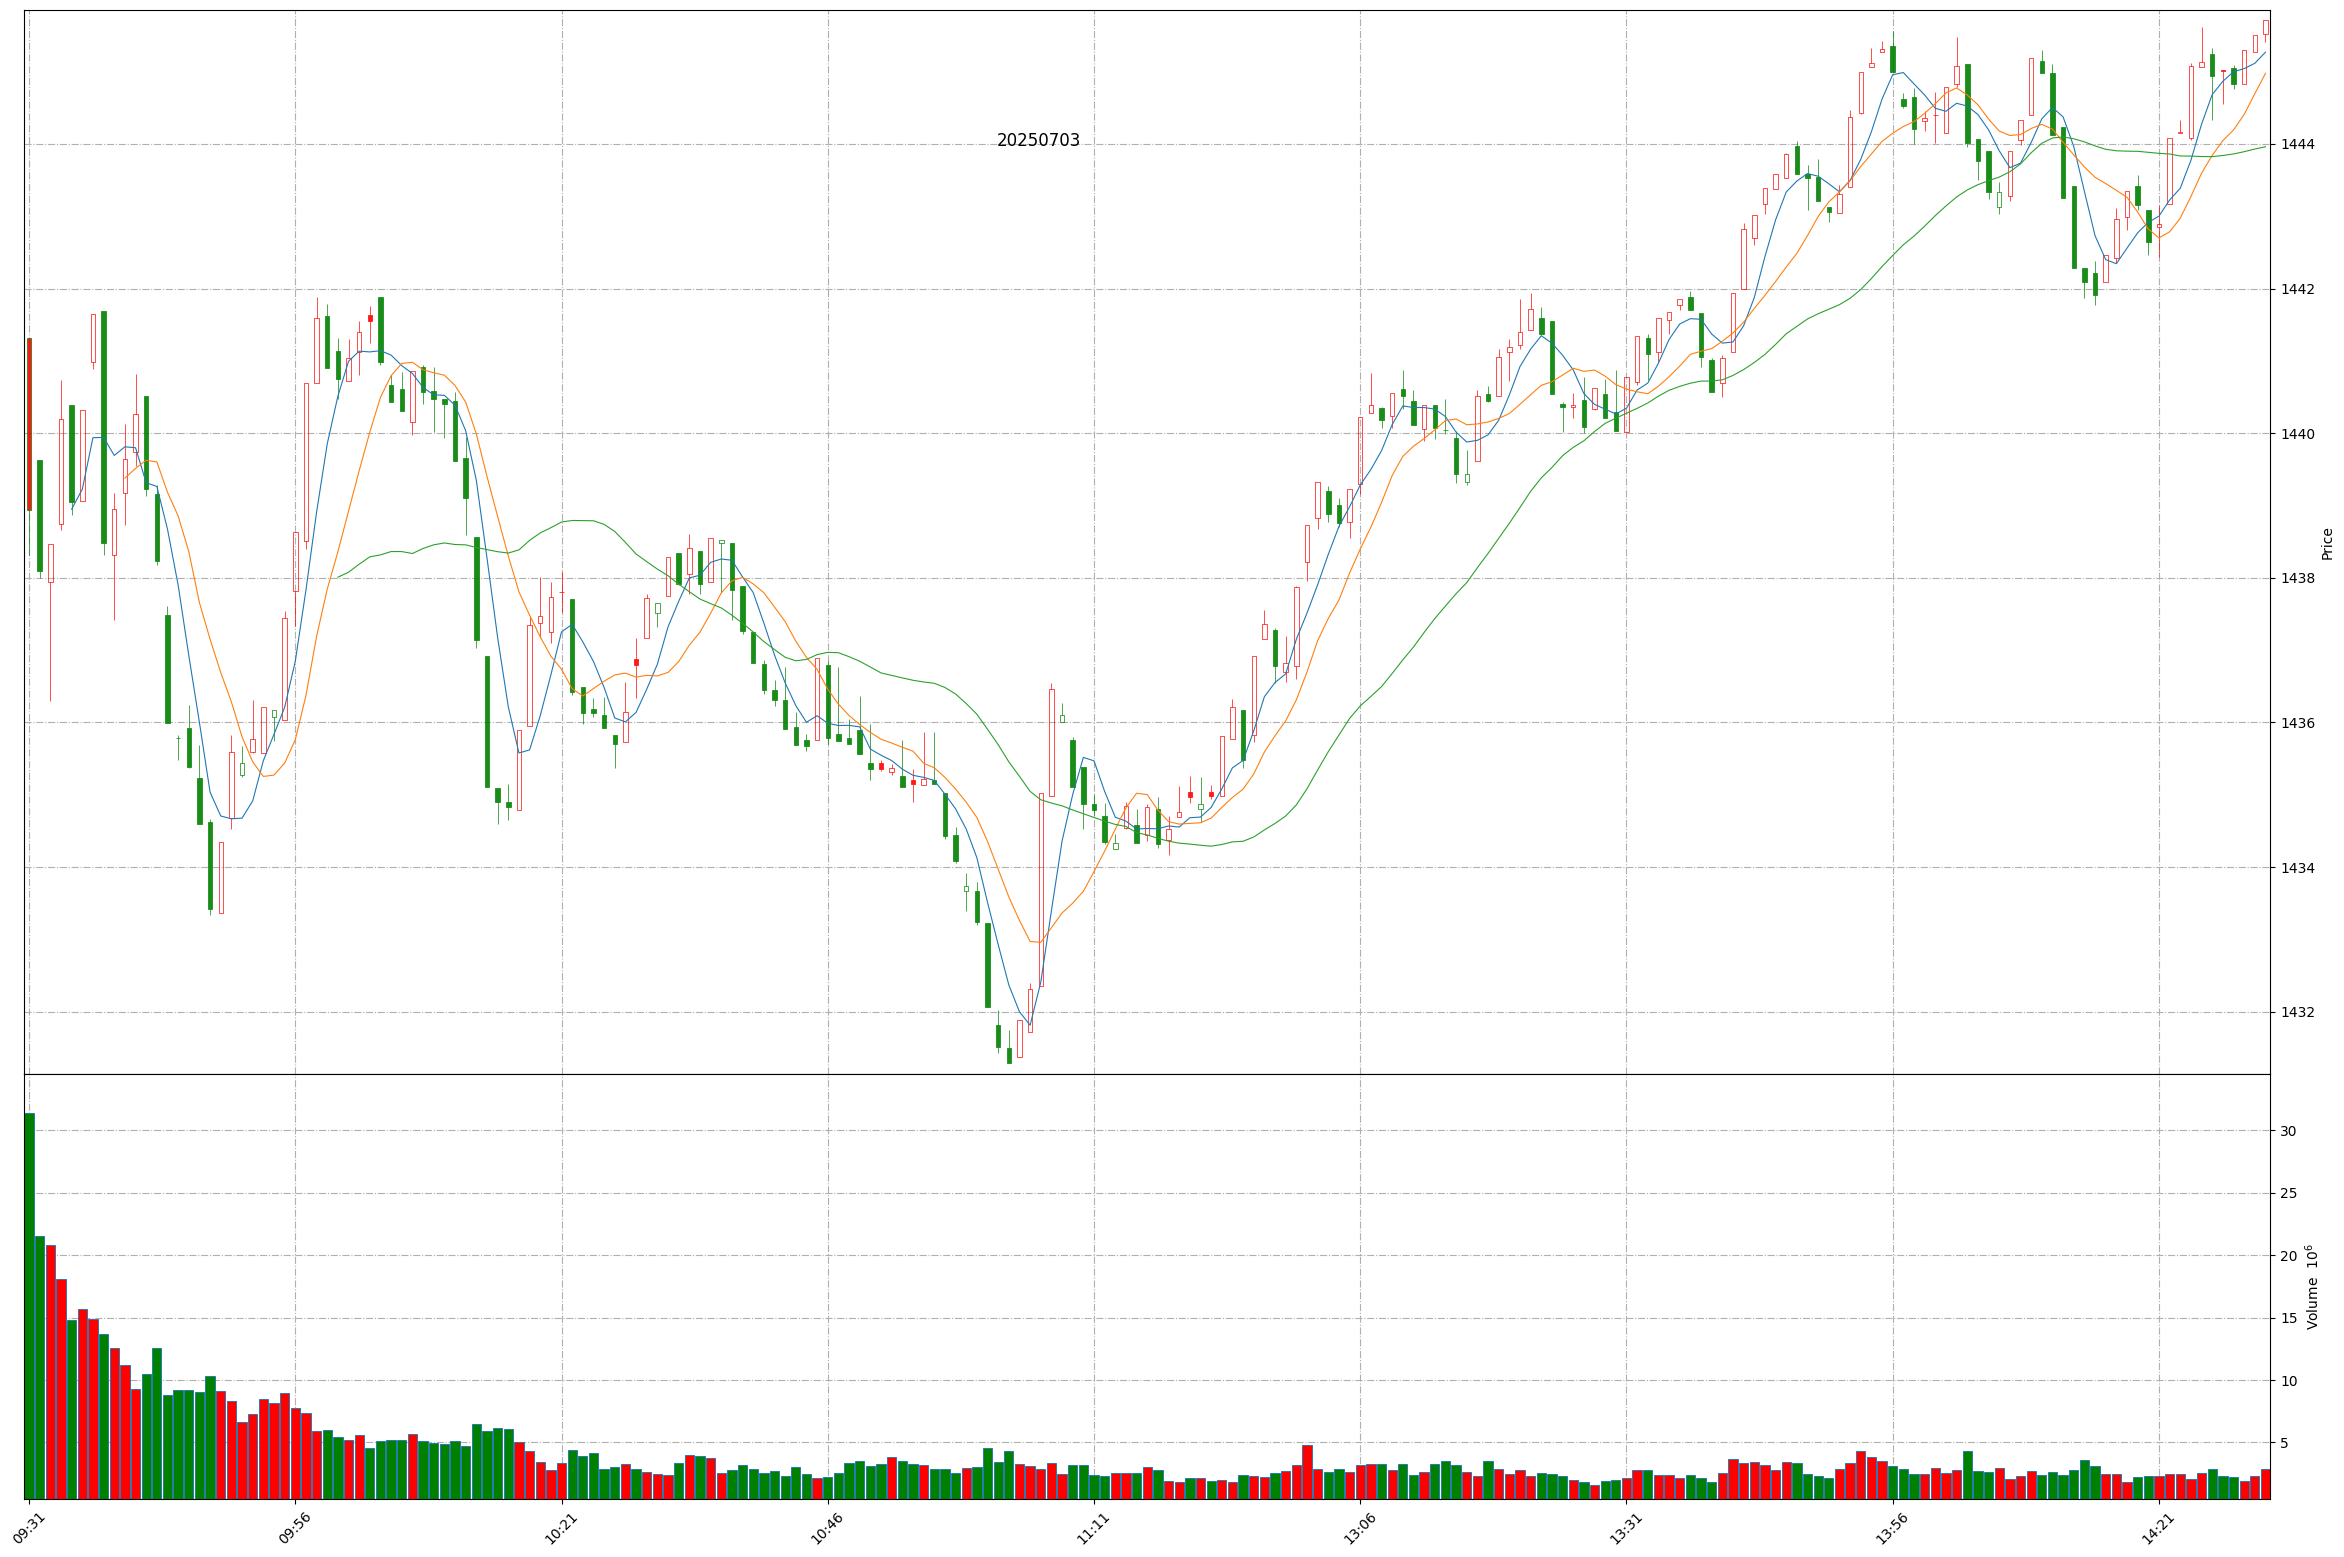
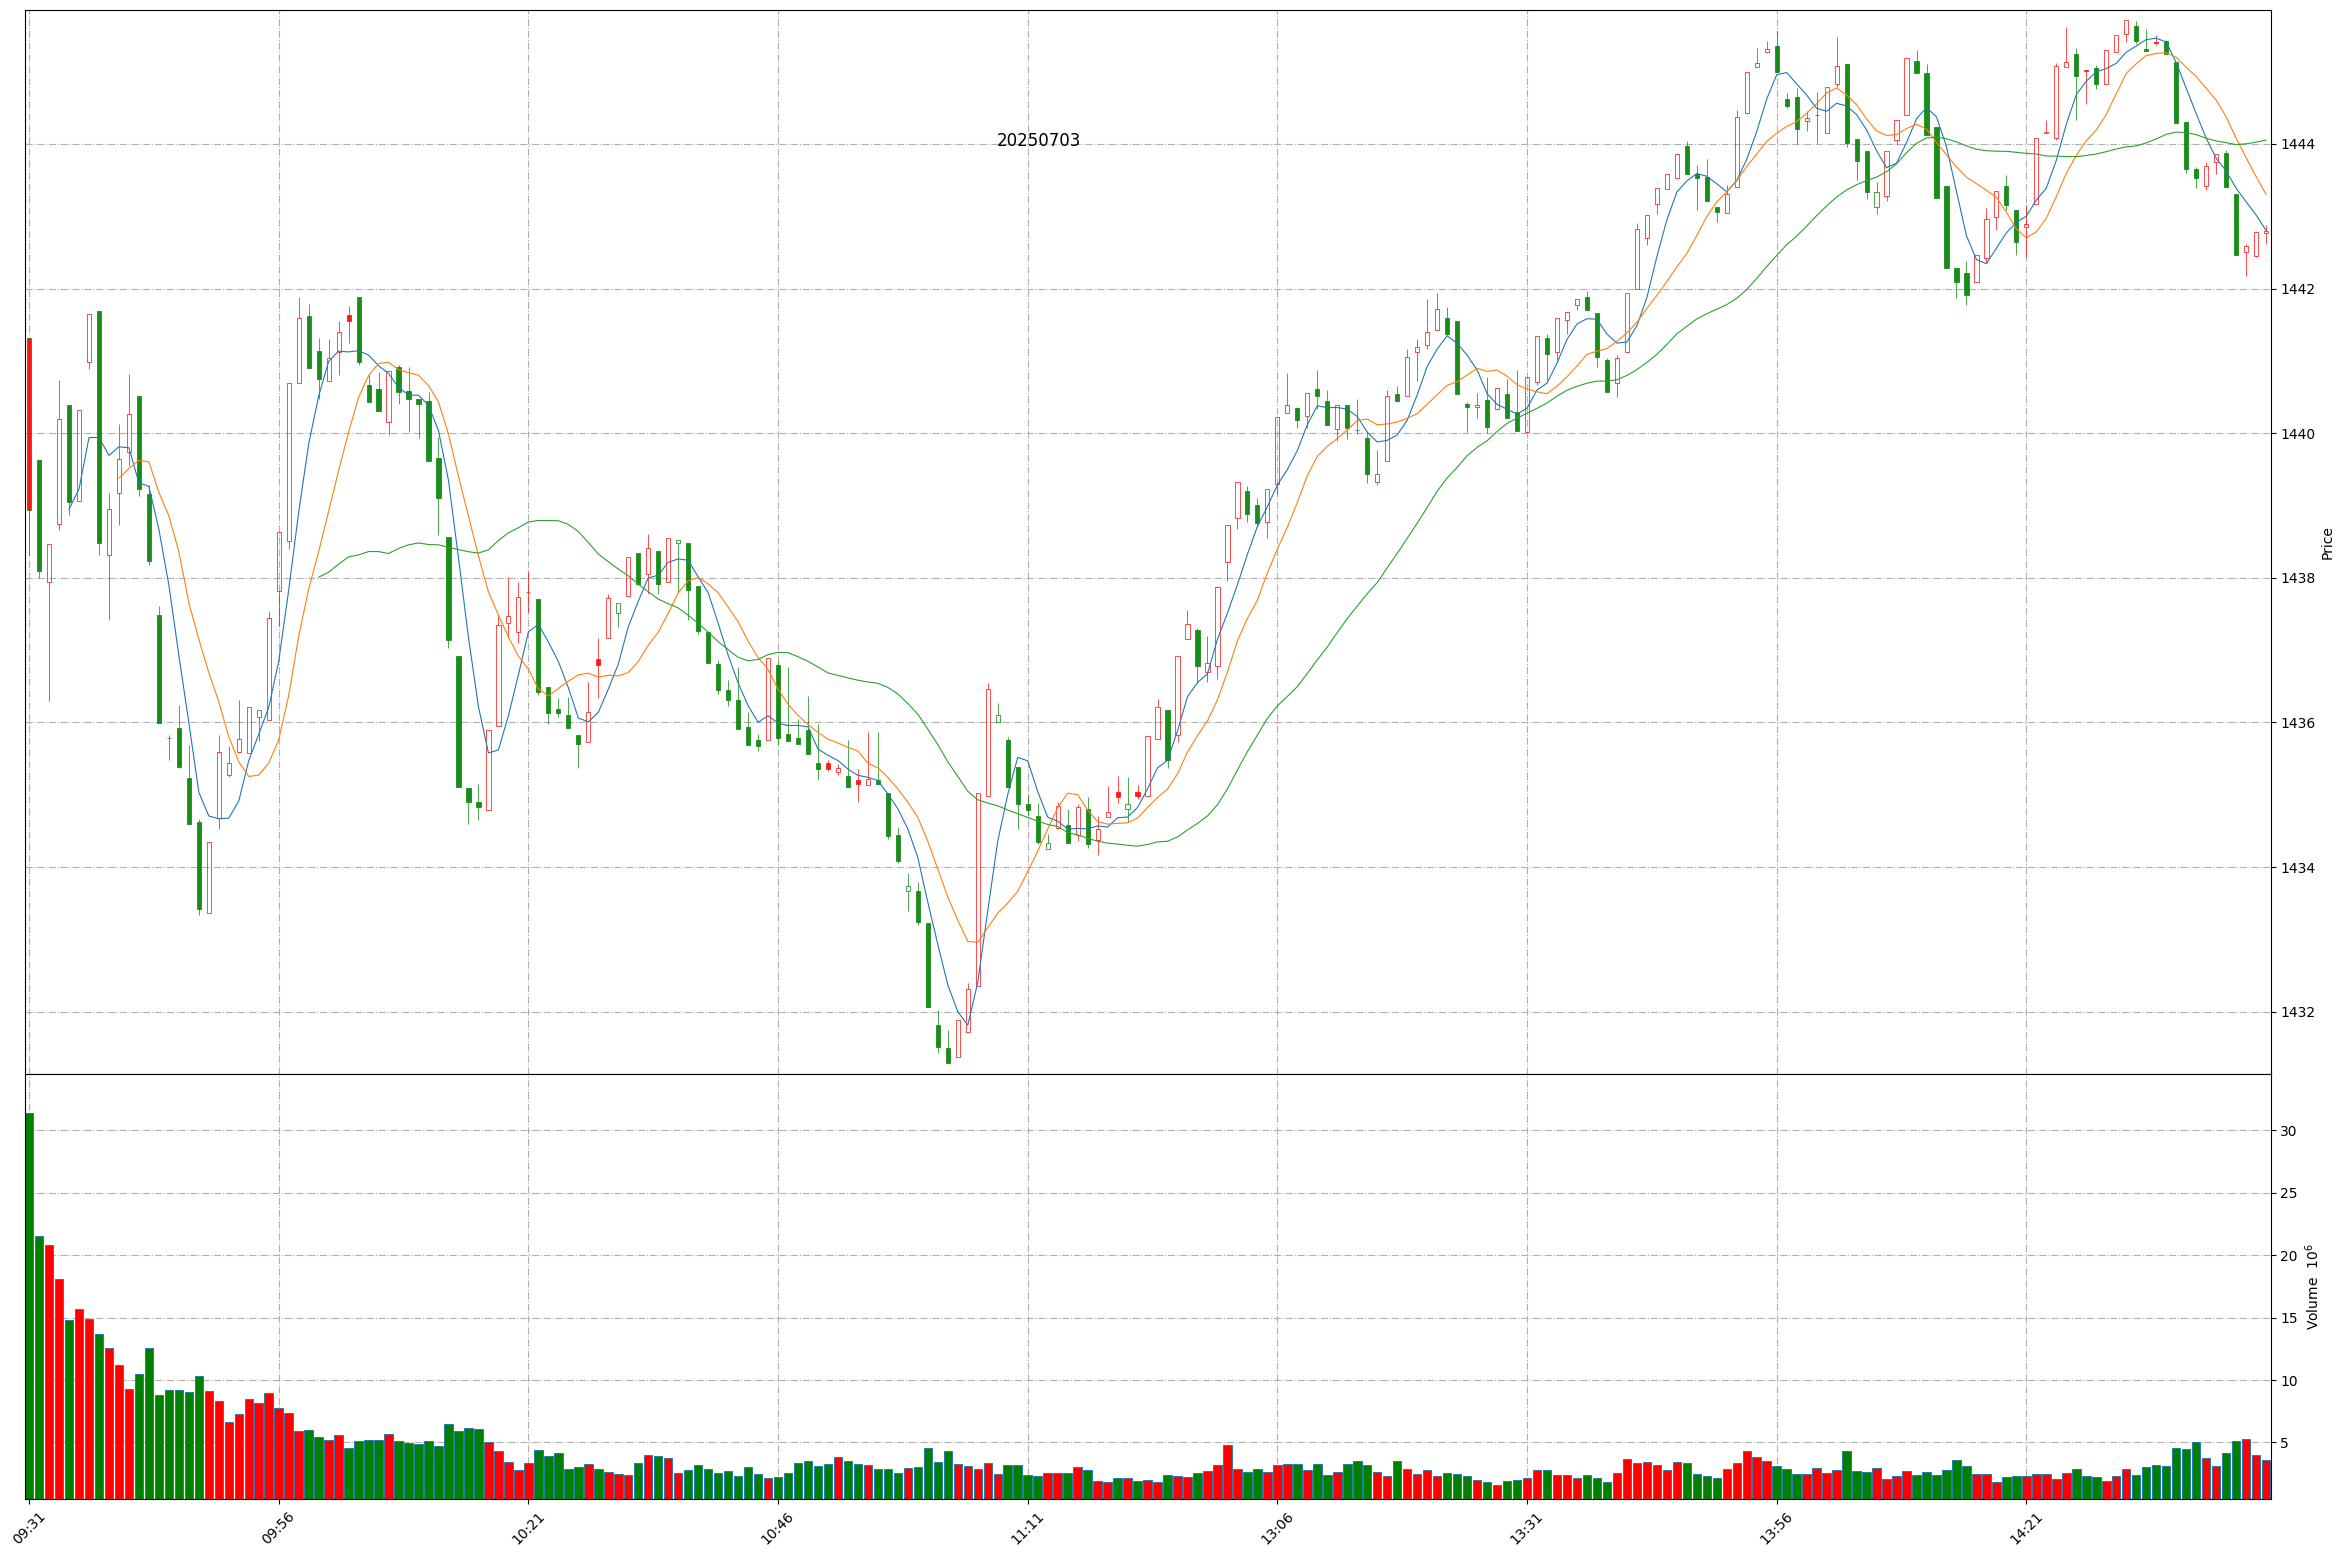
Github action update at 2025-07-03 14:45:02.

diff --git a/README.md b/README.md
@@ -1,11 +1,11 @@
 
 # Daily-A-share-market-quotes 每日 A 股指数（5min 更新）- 20250703
 
-### 上证指数 20250703 14:31
+### 上证指数 20250703 14:45
 ![](./fig/2025/7/20250703-sh000001.png)
 
-### 深证成指 20250703 14:31
+### 深证成指 20250703 14:45
 ![](./fig/2025/7/20250703-sz399001.png)
 
-### 北证50 20250703 14:31
+### 北证50 20250703 14:45
 ![](./fig/2025/7/20250703-bj899050.png)
